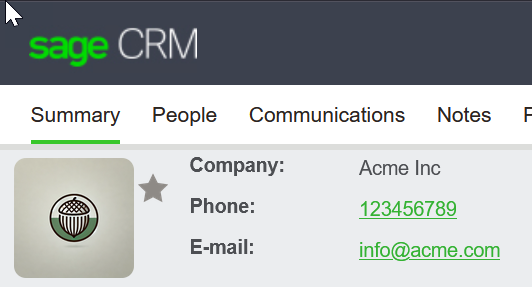
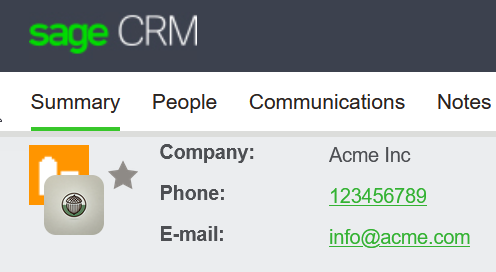
changed how person images show

diff --git a/src/PersCompImage2025/js/custom/ct_comp_pers_image.js b/src/PersCompImage2025/js/custom/ct_comp_pers_image.js
@@ -65,10 +65,13 @@ crm.ready(function() {
         if (companyContext) {
             ctimglog('companyContext:' + companyContext);
             const txtC = getInitials(imagesObj.compName);
-
+			ctimglog('companyContext txtC:' + txtC);
+			ctimglog('companyContext companyImageUrl:' + imagesObj.companyImageUrl);
+			//have we stored a version?
             if (imagesObj.companyImageUrl.indexOf("favicon.jpg") > -1) {
                 checkImage(imagesObj.companyImageUrl, function(ev) {
                     const actualW = ev.target.width;
+					ctimglog('actualW:' + actualW);
                     if (actualW < 32) return;
                     if (actualW < 40) {
                         TOPHEADING.appendChild(ev.target);
@@ -77,7 +80,7 @@ crm.ready(function() {
                         ev.target.style.left = '10px';
                         ev.target.style.top = '-20px';
 						ev.target.style.borderRadius= '8px';
-                    } else if (actualW < 300) {
+                    } else if (actualW < 3000) {
                         TOPHEADING.appendChild(ev.target);
                         ev.target.style.width = '40px';
                         ev.target.style.height = 'auto !important';
@@ -89,7 +92,7 @@ crm.ready(function() {
                         setMainImage(TOPHEADING, imagesObj.companyImageUrl, txtC);
                     }
                 });
-            } else {
+            } else {						
                 setMainImage(TOPHEADING, imagesObj.companyImageUrl, txtC);
             }
         } else if (personContext) {
@@ -107,7 +110,8 @@ crm.ready(function() {
                     Object.assign(img.style, {
                         position: 'relative',
                         right: "-20px",
-                        top: "-20px",
+                        top: "-40px",
+						zIndex :0,
                         width: "30px",
                         height: 'auto',
                         borderRadius: '8px',
@@ -195,6 +199,8 @@ function setMainImage(container, imageUrl, text) {
 	ctimglog('setMainImage:'+container);
 	ctimglog('setMainImage imageUrl:'+imageUrl);
 	
+	//var _imgx=createImageMain(imageUrl,99);
+	
     if(imageUrl=='' && text == '') return;
     let fc = container.firstChild;
 	
@@ -203,32 +209,41 @@ function setMainImage(container, imageUrl, text) {
         createAvatar(container,text);
         return;
     };
-	
+	ctimglog('fc.nodeName:'+fc.nodeName);
 	if (fc.nodeName== 'A') {
 		targetImgEl = document.createElement('img');
 		targetImgEl.src=imageUrl;
 		Object.assign(targetImgEl.style, {
 			width:'40px',
 			height:'40px',
+			zIndex :1,
 			borderRadius:'8px',
-			objectFit:'contain'
+			objectFit:'cover',
+			position: 'relative',
+			right: "-10px",
+			top: "-20px",
 		});
 		container.appendChild(targetImgEl);
 		fc.remove();
 	} else if(fc.nodeName== 'IMG') {
-		targetImgEl=container.firstChild;
+		//targetImgEl=container.firstChild;
+		targetImgEl = document.createElement('img');
 		targetImgEl.src=imageUrl;
 		Object.assign(targetImgEl.style, {
 			width:'40px',
 			height:'40px',
+			zIndex :1,
 			borderRadius:'8px',
-			objectFit:'contain'
+			objectFit:'cover',
+			position: 'relative',
+			right: "-10px",
+			top: "-20px",
 		});
-		//container.appendChild(targetImgEl);
+		container.appendChild(targetImgEl);
 		//fc.remove();
 	}	
 	else {
-		ctimglog('xxxx');
+		ctimglog('default');
 		targetImgEl = container.firstChild;
 	}    
 }
